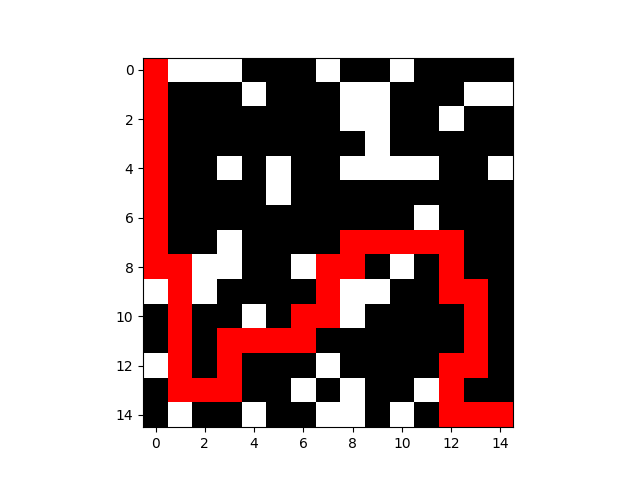
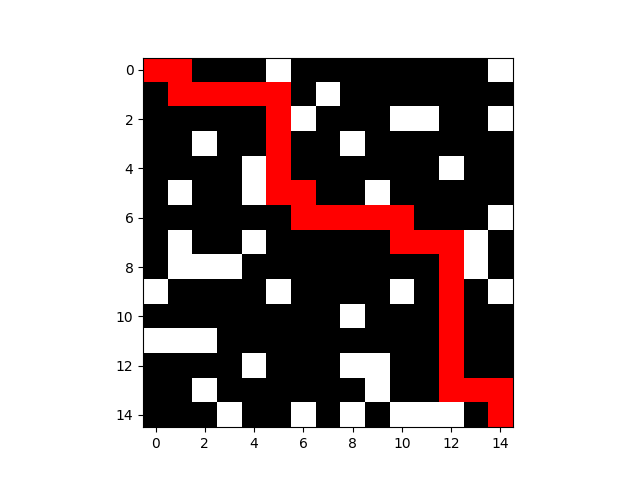
fix

Changed region(s): [[0.2188, 0.125, 0.8125, 0.9062]]

diff --git a/maze_solver/maze.py b/maze_solver/maze.py
@@ -192,7 +192,7 @@ class Maze:
             random.shuffle(cells)
 
             for (i, j) in cells:
-                if random.random() < wall:
+                if random.random() > wall:
                     continue
 
                 self.matrix[i][j] = True
